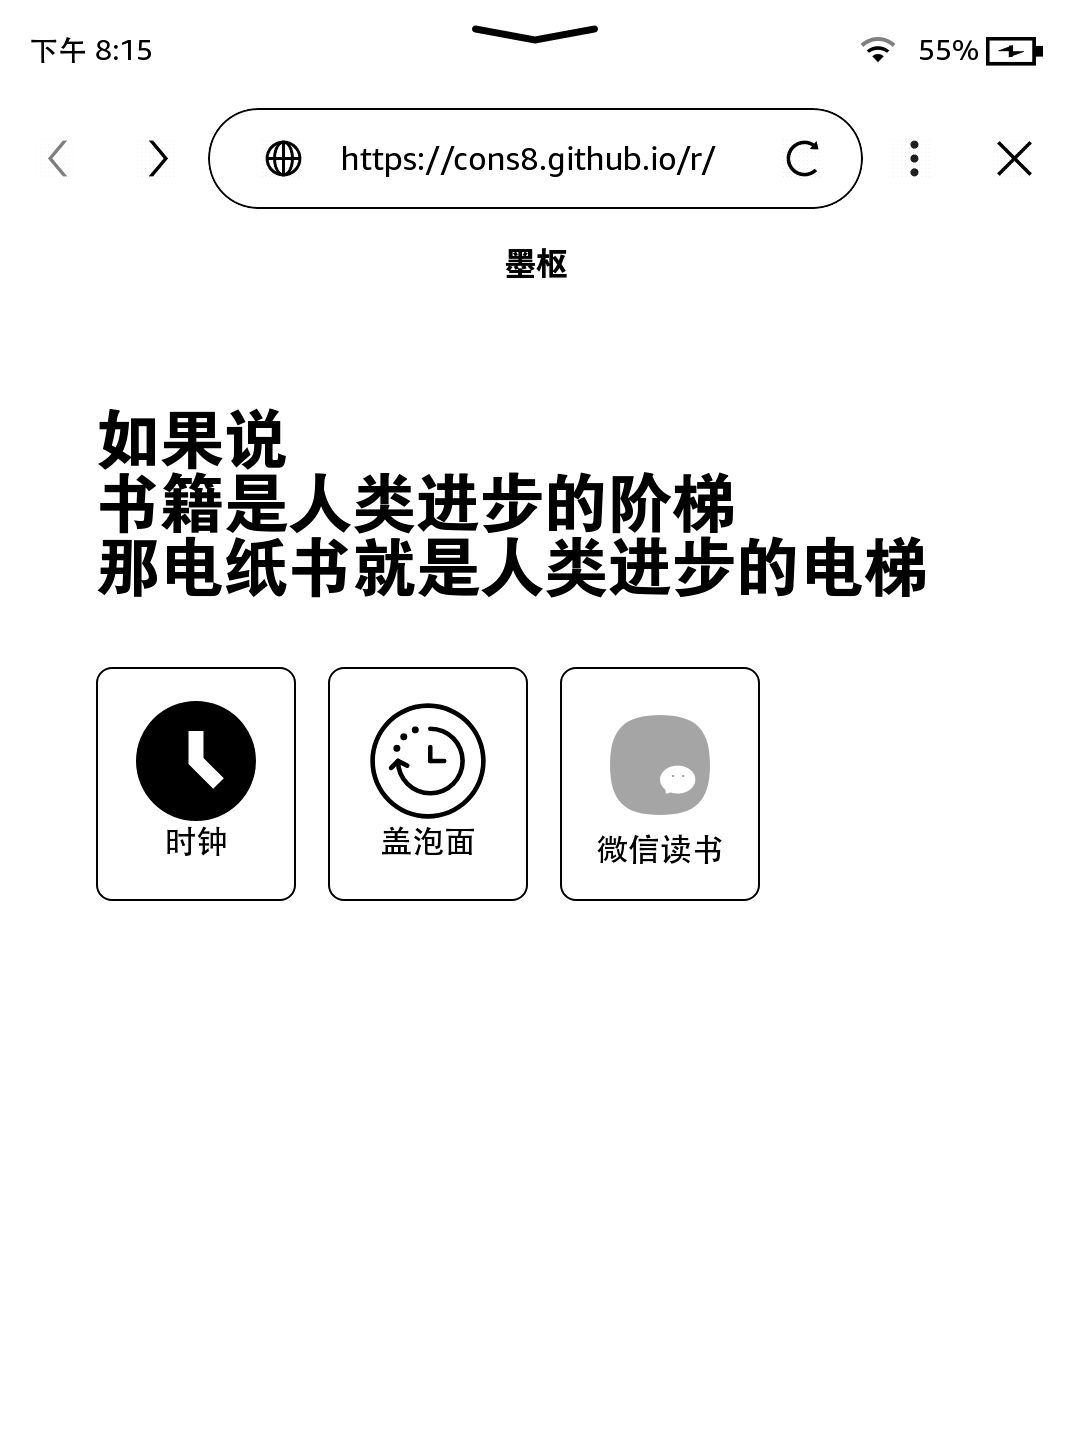
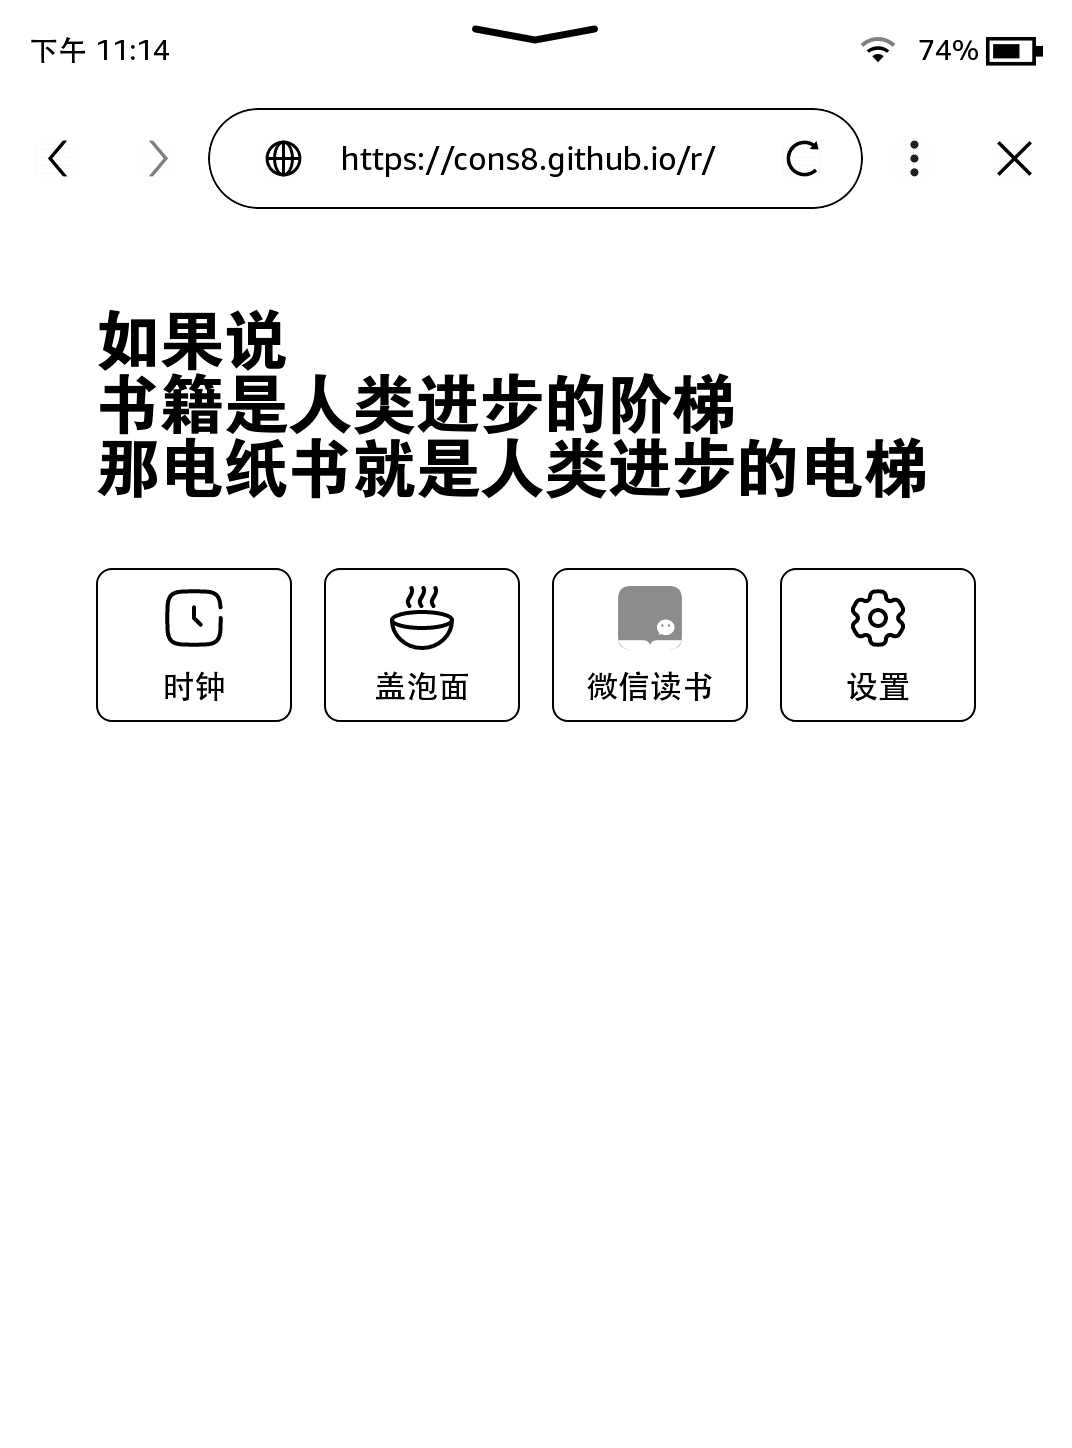
Update README.md

diff --git a/README.md b/README.md
@@ -2,9 +2,10 @@
 kindle导航/资源整合
 ## 📖项目简介
 专为Kindle浏览器设计的沉浸式导航系统，整合资源聚合、书籍推荐、工具集成三大核心模块
+因电子墨水屏幕的特性导致在显示UI上面临一些问题，如刷新率低，灰度表现不佳，因此在进行页面设计时，尽量使用纯色背景，并尽量使用纯色图标。
 ## 📚 使用指南
-之间访问页面 cons8.github.io/r 即可
+直接访问页面 cons8.github.io/r 即可在线体验
+在kindle 浏览器中将链接添加为书签，方便下次访问
 
 ## 🌹项目预览
-
 <img width="350" alt="项目截图" src="./static/screenshot.png" />
